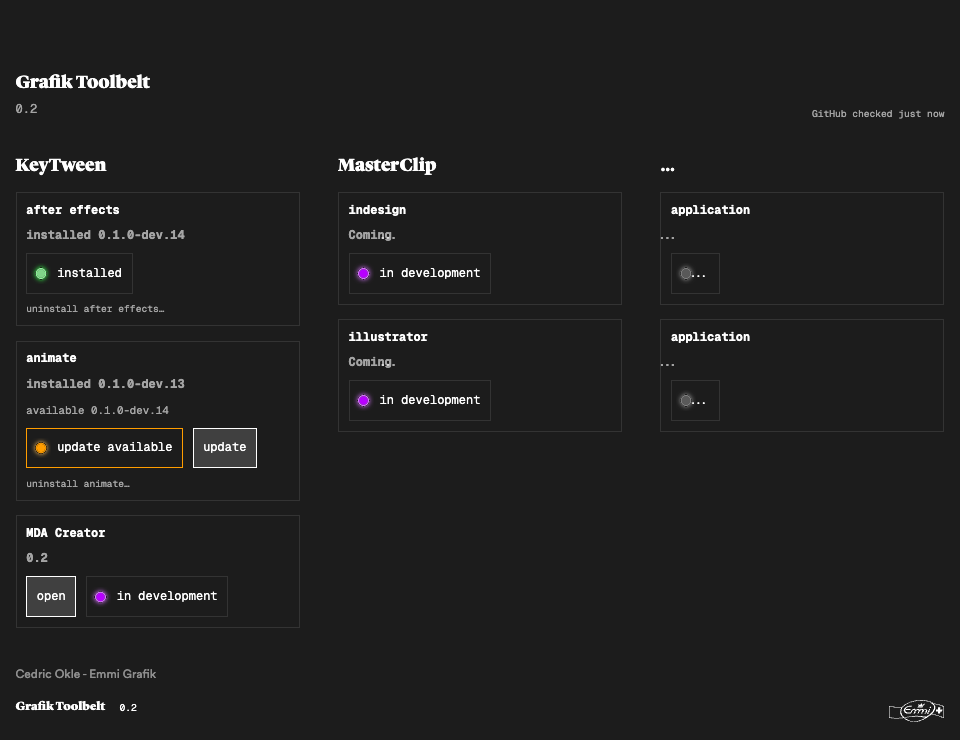
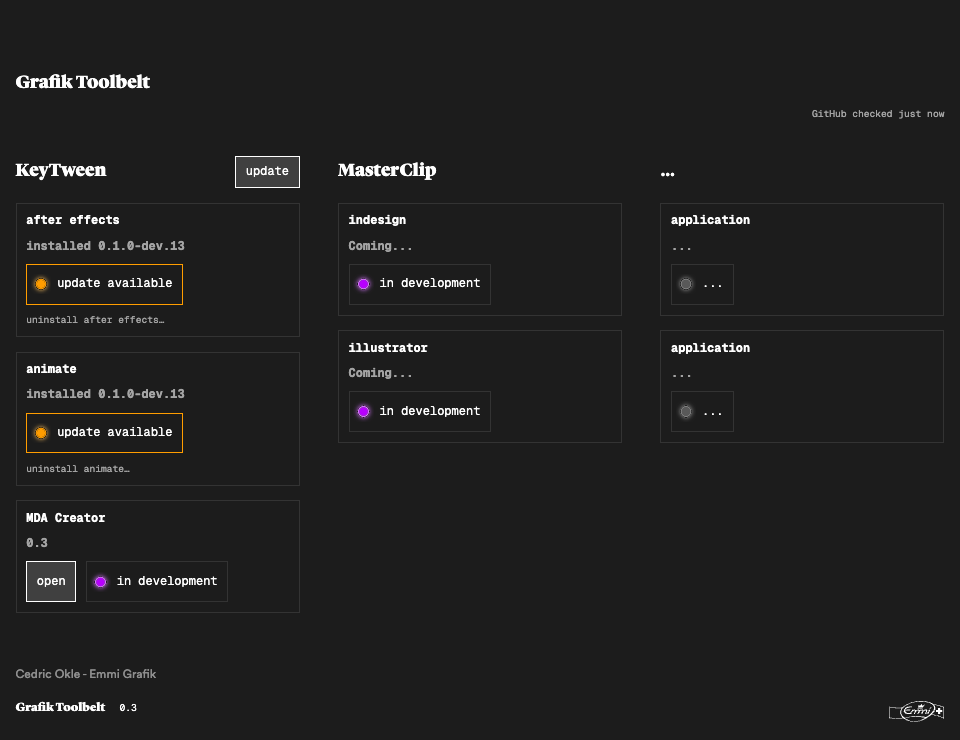
Document shared updates and cancellation in Toolbelt 0.3

diff --git a/README.md b/README.md
@@ -28,6 +28,8 @@ Toolbelt reads releases from this public repository—no GitHub account or acces
 
 Development plugin releases are included by default. Installed versions are never automatically downgraded. Update checks run automatically every 30 minutes while Toolbelt is open and never replace running Adobe panels. Releases contain only the DMG and GitHub’s automatic source archives. Plugin updates are read from the verified DMG.
 
+KeyTween has one shared update button beside its heading. Installations start directly and offer Cancel while in progress; cancellation restores the previous installation. Uninstall uses an in-app confirmation.
+
 The interface starts at 120% size. Use the View menu to change its size; your choice is remembered. Upgrading from the old 0.2.1-numbered app to 0.2 requires a manual DMG download once.
 
 ### Preview status
